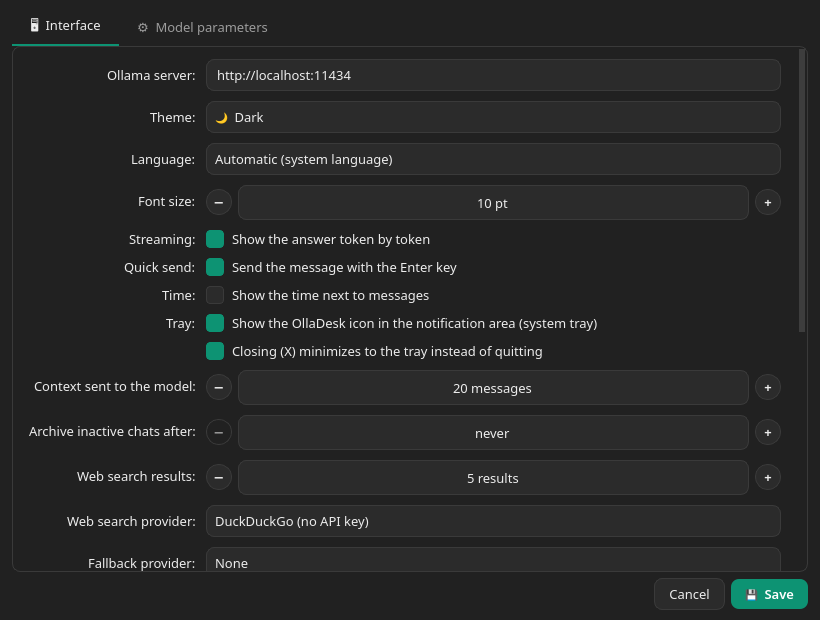
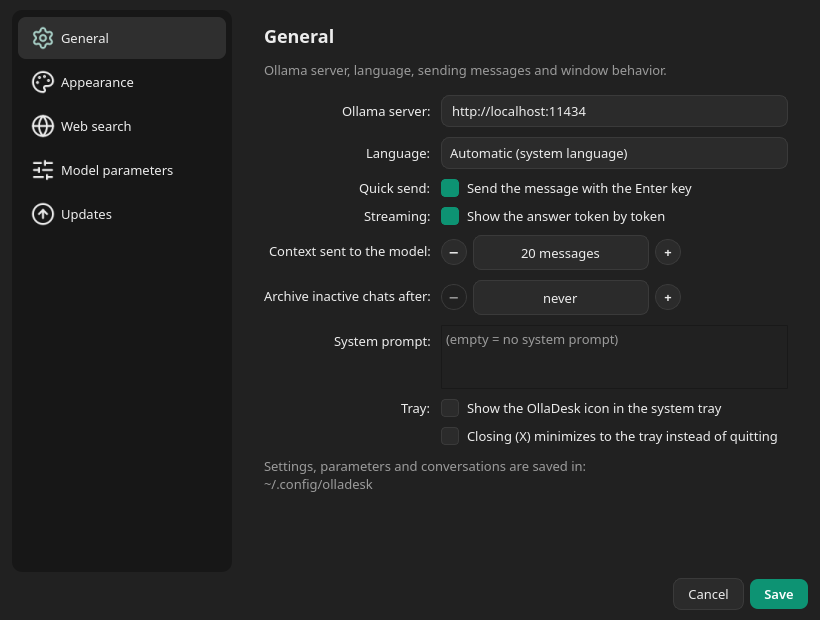
docs: screenshot della nuova interfaccia
- chat.png, web-search.png e settings.png rigenerati con
  scripts/screenshots.py (models.png identico, phone.png invariato: la
  companion web non è cambiata);
- lo script genera anche settings.png (prima fatto a mano), con indirizzo
  e cartella predefiniti; il suo finto Ollama risponde a /api/show (badge
  delle capacità) e il controllo degli aggiornamenti di Ollama è spento;
- impostazioni: con le etichette lunghe e la finestra stretta
  l'etichetta va sopra il campo (prima, in inglese a 820 px, barra di
  scorrimento orizzontale); menu delle pagine a 220 px con «…» per le
  voci troppo lunghe; traduzione inglese della tray accorciata.

diff --git a/scripts/screenshots.py b/scripts/screenshots.py
@@ -40,7 +40,7 @@ OUT = os.path.join(ROOT, OUT_REL)
 sys.path.insert(0, ROOT)
 
 from PySide6.QtCore import QEventLoop, QTimer  # noqa: E402
-from PySide6.QtWidgets import QApplication, QScrollArea, QToolButton  # noqa: E402
+from PySide6.QtWidgets import QApplication, QLabel, QScrollArea, QToolButton  # noqa: E402
 
 from olladesk import config, web_search  # noqa: E402
 
@@ -72,6 +72,26 @@ class _Ollama(BaseHTTPRequestHandler):
             self.send_error(404)
             return
         data = json.dumps(body).encode()
+        self.send_response(200)
+        self.send_header("Content-Type", "application/json")
+        self.send_header("Content-Length", str(len(data)))
+        self.end_headers()
+        self.wfile.write(data)
+
+
+    def do_POST(self):  # noqa: N802 (API http.server)
+        # /api/show: capacità del modello (badge accanto al selettore)
+        length = int(self.headers.get("Content-Length") or 0)
+        name = json.loads(self.rfile.read(length) or b"{}").get("model", "")
+        if self.path != "/api/show":
+            self.send_error(404)
+            return
+        caps = ["completion"]
+        if name.startswith(("qwen3", "deepseek-r1")):
+            caps += ["thinking", "tools"]
+        if name.startswith("gemma3"):
+            caps.append("vision")
+        data = json.dumps({"capabilities": caps}).encode()
         self.send_response(200)
         self.send_header("Content-Type", "application/json")
         self.send_header("Content-Length", str(len(data)))
@@ -352,7 +372,7 @@ def main() -> int:
     s = config.load_settings()
     s.update(host=f"http://127.0.0.1:{srv.server_address[1]}", theme="dark",
              tray_icon=False, close_to_tray=False, companion=False,
-             app_update_check=False)
+             app_update_check=False, ollama_update_check=False)
     config.save_settings(s)
     code_id, web_id = write_chats()
 
@@ -402,6 +422,21 @@ def main() -> int:
     wait(1200)
     save(dlg, "models.png")
     dlg.close()
+
+    # impostazioni: pagina «Generale», stessa dimensione della galleria dei README
+    from olladesk.widgets.settings_dialog import SettingsDialog
+    # indirizzo e cartella predefiniti al posto di quelli temporanei della prova
+    sdlg = SettingsDialog({**win.settings, "host": "http://localhost:11434"},
+                          win.model_names, "dark", "0.40.2", win)
+    real_dir = str(config.config_dir())
+    for label in sdlg.findChildren(QLabel):
+        if real_dir in label.text():
+            label.setText(label.text().replace(real_dir, "~/.config/olladesk"))
+    sdlg.resize(820, 620)
+    sdlg.show()
+    wait(500)
+    save(sdlg, "settings.png")
+    sdlg.done(0)
 
     # companion: solo 127.0.0.1, porta libera (mai la 8765 dell'app installata)
     from olladesk import companion

diff --git a/olladesk/widgets/settings_dialog.py b/olladesk/widgets/settings_dialog.py
@@ -75,8 +75,11 @@ class SettingsDialog(QDialog):
         body.setSpacing(12)
         self.nav = QListWidget(self)
         self.nav.setObjectName("settingsNav")
-        self.nav.setFixedWidth(200)
+        self.nav.setFixedWidth(220)
         self.nav.setFrameShape(QFrame.Shape.NoFrame)
+        # una voce troppo lunga si accorcia con «…» invece di far scorrere il menu
+        self.nav.setHorizontalScrollBarPolicy(Qt.ScrollBarPolicy.ScrollBarAlwaysOff)
+        self.nav.setTextElideMode(Qt.TextElideMode.ElideRight)
         self.pages = QStackedWidget(self)
         body.addWidget(self.nav)
         body.addWidget(self.pages, 1)
@@ -161,6 +164,9 @@ class SettingsDialog(QDialog):
         form = QFormLayout()
         form.setSpacing(10)
         form.setLabelAlignment(Qt.AlignmentFlag.AlignRight)
+        # con le etichette lunghe (inglese, tedesco) e la finestra stretta
+        # l'etichetta va sopra il campo invece di far scorrere la pagina di lato
+        form.setRowWrapPolicy(QFormLayout.RowWrapPolicy.WrapLongRows)
         return form
 
     @staticmethod
